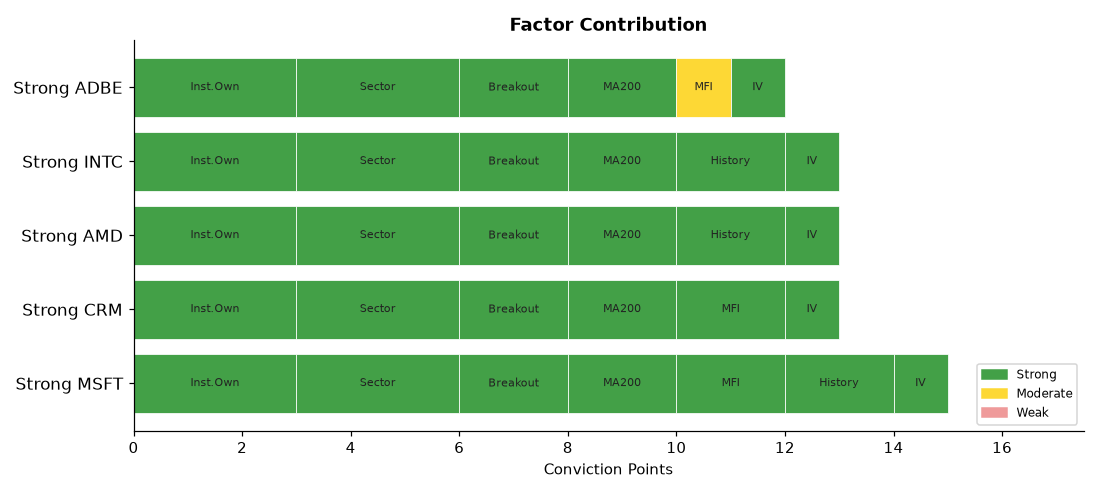
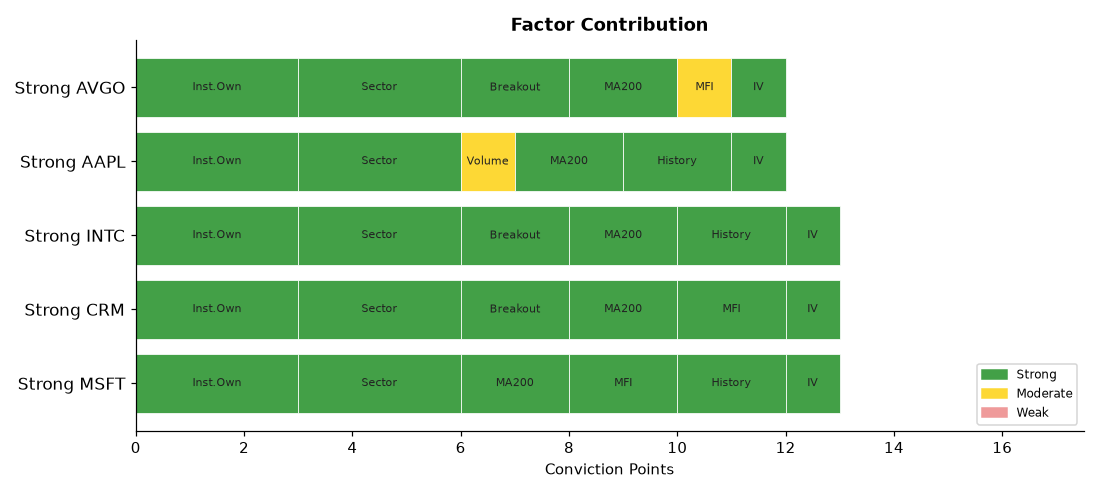
deploy: b7fadf5b06deb90e7ebb92f278722414bdd9750d

diff --git a/index.html b/index.html
@@ -4,7 +4,7 @@
   <meta charset="UTF-8">
   <meta name="viewport" content="width=device-width,initial-scale=1">
   <meta http-equiv="Cache-Control" content="no-cache,no-store,must-revalidate">
-  <title>Stock Breakout Screener — 2026-08-04 18:42</title>
+  <title>Stock Breakout Screener — 2026-08-04 20:20</title>
   <style>
     *{box-sizing:border-box;margin:0;padding:0}
     body{font-family:'Segoe UI',Arial,sans-serif;background:#f0f2f5;
@@ -34,20 +34,20 @@
 
 <div class="hdr">
   <h1>📈 Stock Breakout Screener</h1>
-  <p>Updated: 2026-08-04 18:42 UTC &nbsp;·&nbsp; Phase: Regular Market Hours &nbsp;·&nbsp;
+  <p>Updated: 2026-08-04 20:20 UTC &nbsp;·&nbsp; Phase: After-Hours (4:00–8:00 PM ET) &nbsp;·&nbsp;
      129 stocks screened &nbsp;·&nbsp; Top 5 by conviction score</p>
 </div>
 
 <div class="card">
   <strong style="font-size:14px">Market Sentiment: 🐻 Bearish</strong>
   <div class="bar-wrap" style="margin-top:10px">
-    <div style="width:4%;background:#43a047"></div>
-    <div style="width:4%;background:#fdd835"></div>
+    <div style="width:5%;background:#43a047"></div>
+    <div style="width:3%;background:#fdd835"></div>
     <div style="width:92%;background:#e53935"></div>
   </div>
   <div style="font-size:12px;color:#555">
-    🟢 Strong 4% &nbsp;
-    🟡 Moderate 4% &nbsp;
+    🟢 Strong 5% &nbsp;
+    🟡 Moderate 3% &nbsp;
     🔴 Weak 92%
   </div>
 </div>
@@ -65,11 +65,11 @@
             <span style="margin-left:auto;background:#1a237e;color:#fff;
                          padding:3px 12px;border-radius:12px;
                          font-size:13px;font-weight:600">
-              15/17
+              13/17
             </span>
           </div>
           <ul style="margin:0;padding-left:18px;font-size:13px;
-                     color:#333;line-height:1.8"><li style="margin:5px 0"><span style="background:#ffebee;color:#b71c1c;padding:2px 7px;border-radius:4px;font-size:11px;">❌</span> Volume: <b>0.8× average</b> — Above-average activity</li><li style="margin:5px 0"><span style="background:#e8f5e9;color:#2e7d32;padding:2px 7px;border-radius:4px;font-size:11px;">✅</span> Candle: close <b>$496.24</b> vs open <b>$480.76</b> (+3.2%) — regular market close</li><li style="margin:5px 0"><span style="background:#e8f5e9;color:#2e7d32;padding:2px 7px;border-radius:4px;font-size:11px;">✅</span> 200-Day MA: price <b>$496.24</b> vs MA <b>$400.78</b> — <b>✅ Above</b> long-term trend</li><li style="margin:5px 0"><span style="background:#e8f5e9;color:#2e7d32;padding:2px 7px;border-radius:4px;font-size:11px;">✅</span> Inst. ownership: <b>75.4%</b> · MFI: <b>78.2</b> · Market cap: <b>$3684.7B</b></li><li style="margin:5px 0"><span style="background:#e8f5e9;color:#2e7d32;padding:2px 7px;border-radius:4px;font-size:11px;">✅</span> Last similar breakout: <b>Jul 30, 2026</b> → <b>+10.0%</b> over 10 trading days</li></ul>
+                     color:#333;line-height:1.8"><li style="margin:5px 0"><span style="background:#ffebee;color:#b71c1c;padding:2px 7px;border-radius:4px;font-size:11px;">❌</span> Volume: <b>1.3× average</b> — Above-average activity</li><li style="margin:5px 0"><span style="background:#ffebee;color:#b71c1c;padding:2px 7px;border-radius:4px;font-size:11px;">❌</span> Candle: close <b>$492.81</b> vs open <b>$480.90</b> (+2.5%) — regular market close</li><li style="margin:5px 0"><span style="background:#e8f5e9;color:#2e7d32;padding:2px 7px;border-radius:4px;font-size:11px;">✅</span> 200-Day MA: price <b>$492.81</b> vs MA <b>$400.66</b> — <b>✅ Above</b> long-term trend</li><li style="margin:5px 0"><span style="background:#e8f5e9;color:#2e7d32;padding:2px 7px;border-radius:4px;font-size:11px;">✅</span> Inst. ownership: <b>75.4%</b> · MFI: <b>79.0</b> · Market cap: <b>$3659.4B</b></li><li style="margin:5px 0"><span style="background:#e8f5e9;color:#2e7d32;padding:2px 7px;border-radius:4px;font-size:11px;">✅</span> Last similar breakout: <b>Jul 30, 2026</b> → <b>+9.2%</b> over 10 trading days</li></ul>
         </div>
         <div style="background:#fff;border:1px solid #ddd;border-radius:10px;
                     padding:16px 20px;margin-bottom:12px;
@@ -86,7 +86,7 @@
             </span>
           </div>
           <ul style="margin:0;padding-left:18px;font-size:13px;
-                     color:#333;line-height:1.8"><li style="margin:5px 0"><span style="background:#ffebee;color:#b71c1c;padding:2px 7px;border-radius:4px;font-size:11px;">❌</span> Volume: <b>0.3× average</b> — Above-average activity</li><li style="margin:5px 0"><span style="background:#e8f5e9;color:#2e7d32;padding:2px 7px;border-radius:4px;font-size:11px;">✅</span> Candle: close <b>$190.14</b> vs open <b>$183.09</b> (+3.9%) — regular market close</li><li style="margin:5px 0"><span style="background:#e8f5e9;color:#2e7d32;padding:2px 7px;border-radius:4px;font-size:11px;">✅</span> 200-Day MA: price <b>$190.14</b> vs MA <b>$179.35</b> — <b>✅ Above</b> long-term trend</li><li style="margin:5px 0"><span style="background:#e8f5e9;color:#2e7d32;padding:2px 7px;border-radius:4px;font-size:11px;">✅</span> Inst. ownership: <b>93.8%</b> · MFI: <b>62.4</b> · Market cap: <b>N/A</b></li><li style="margin:5px 0"><span style="background:#ffebee;color:#b71c1c;padding:2px 7px;border-radius:4px;font-size:11px;">❌</span> Last similar breakout: <b>May 29, 2026</b> → <b>-13.0%</b> over 10 trading days</li></ul>
+                     color:#333;line-height:1.8"><li style="margin:5px 0"><span style="background:#ffebee;color:#b71c1c;padding:2px 7px;border-radius:4px;font-size:11px;">❌</span> Volume: <b>0.6× average</b> — Above-average activity</li><li style="margin:5px 0"><span style="background:#e8f5e9;color:#2e7d32;padding:2px 7px;border-radius:4px;font-size:11px;">✅</span> Candle: close <b>$190.99</b> vs open <b>$183.09</b> (+4.3%) — regular market close</li><li style="margin:5px 0"><span style="background:#e8f5e9;color:#2e7d32;padding:2px 7px;border-radius:4px;font-size:11px;">✅</span> 200-Day MA: price <b>$190.99</b> vs MA <b>$179.20</b> — <b>✅ Above</b> long-term trend</li><li style="margin:5px 0"><span style="background:#e8f5e9;color:#2e7d32;padding:2px 7px;border-radius:4px;font-size:11px;">✅</span> Inst. ownership: <b>93.8%</b> · MFI: <b>60.9</b> · Market cap: <b>N/A</b></li><li style="margin:5px 0"><span style="background:#ffebee;color:#b71c1c;padding:2px 7px;border-radius:4px;font-size:11px;">❌</span> Last similar breakout: <b>May 29, 2026</b> → <b>-13.0%</b> over 10 trading days</li></ul>
         </div>
         <div style="background:#fff;border:1px solid #ddd;border-radius:10px;
                     padding:16px 20px;margin-bottom:12px;
@@ -94,7 +94,7 @@
           <div style="display:flex;align-items:center;gap:10px;
                       flex-wrap:wrap;margin-bottom:10px">
             <span style="font-size:22px">🟢</span>
-            <span style="font-size:19px;font-weight:700">3. AMD</span>
+            <span style="font-size:19px;font-weight:700">3. INTC</span>
             <span style="font-size:12px;color:#666">Technology</span>
             <span style="margin-left:auto;background:#1a237e;color:#fff;
                          padding:3px 12px;border-radius:12px;
@@ -103,7 +103,7 @@
             </span>
           </div>
           <ul style="margin:0;padding-left:18px;font-size:13px;
-                     color:#333;line-height:1.8"><li style="margin:5px 0"><span style="background:#ffebee;color:#b71c1c;padding:2px 7px;border-radius:4px;font-size:11px;">❌</span> Volume: <b>0.7× average</b> — Above-average activity</li><li style="margin:5px 0"><span style="background:#e8f5e9;color:#2e7d32;padding:2px 7px;border-radius:4px;font-size:11px;">✅</span> Candle: close <b>$526.45</b> vs open <b>$504.24</b> (+4.4%) — regular market close</li><li style="margin:5px 0"><span style="background:#e8f5e9;color:#2e7d32;padding:2px 7px;border-radius:4px;font-size:11px;">✅</span> 200-Day MA: price <b>$526.45</b> vs MA <b>$365.58</b> — <b>✅ Above</b> long-term trend</li><li style="margin:5px 0"><span style="background:#e8f5e9;color:#2e7d32;padding:2px 7px;border-radius:4px;font-size:11px;">✅</span> Inst. ownership: <b>71.8%</b> · MFI: <b>42.1</b> · Market cap: <b>N/A</b></li><li style="margin:5px 0"><span style="background:#e8f5e9;color:#2e7d32;padding:2px 7px;border-radius:4px;font-size:11px;">✅</span> Last similar breakout: <b>Apr 24, 2026</b> → <b>+30.9%</b> over 10 trading days</li></ul>
+                     color:#333;line-height:1.8"><li style="margin:5px 0"><span style="background:#ffebee;color:#b71c1c;padding:2px 7px;border-radius:4px;font-size:11px;">❌</span> Volume: <b>1.0× average</b> — Above-average activity</li><li style="margin:5px 0"><span style="background:#e8f5e9;color:#2e7d32;padding:2px 7px;border-radius:4px;font-size:11px;">✅</span> Candle: close <b>$100.86</b> vs open <b>$95.24</b> (+5.9%) — regular market close</li><li style="margin:5px 0"><span style="background:#e8f5e9;color:#2e7d32;padding:2px 7px;border-radius:4px;font-size:11px;">✅</span> 200-Day MA: price <b>$100.86</b> vs MA <b>$84.29</b> — <b>✅ Above</b> long-term trend</li><li style="margin:5px 0"><span style="background:#e8f5e9;color:#2e7d32;padding:2px 7px;border-radius:4px;font-size:11px;">✅</span> Inst. ownership: <b>63.6%</b> · MFI: <b>33.2</b> · Market cap: <b>$508.7B</b></li><li style="margin:5px 0"><span style="background:#e8f5e9;color:#2e7d32;padding:2px 7px;border-radius:4px;font-size:11px;">✅</span> Last similar breakout: <b>Apr 29, 2026</b> → <b>+27.0%</b> over 10 trading days</li></ul>
         </div>
         <div style="background:#fff;border:1px solid #ddd;border-radius:10px;
                     padding:16px 20px;margin-bottom:12px;
@@ -111,24 +111,7 @@
           <div style="display:flex;align-items:center;gap:10px;
                       flex-wrap:wrap;margin-bottom:10px">
             <span style="font-size:22px">🟢</span>
-            <span style="font-size:19px;font-weight:700">4. INTC</span>
-            <span style="font-size:12px;color:#666">Technology</span>
-            <span style="margin-left:auto;background:#1a237e;color:#fff;
-                         padding:3px 12px;border-radius:12px;
-                         font-size:13px;font-weight:600">
-              13/17
-            </span>
-          </div>
-          <ul style="margin:0;padding-left:18px;font-size:13px;
-                     color:#333;line-height:1.8"><li style="margin:5px 0"><span style="background:#ffebee;color:#b71c1c;padding:2px 7px;border-radius:4px;font-size:11px;">❌</span> Volume: <b>0.7× average</b> — Above-average activity</li><li style="margin:5px 0"><span style="background:#e8f5e9;color:#2e7d32;padding:2px 7px;border-radius:4px;font-size:11px;">✅</span> Candle: close <b>$100.23</b> vs open <b>$95.32</b> (+5.2%) — regular market close</li><li style="margin:5px 0"><span style="background:#e8f5e9;color:#2e7d32;padding:2px 7px;border-radius:4px;font-size:11px;">✅</span> 200-Day MA: price <b>$100.23</b> vs MA <b>$84.00</b> — <b>✅ Above</b> long-term trend</li><li style="margin:5px 0"><span style="background:#e8f5e9;color:#2e7d32;padding:2px 7px;border-radius:4px;font-size:11px;">✅</span> Inst. ownership: <b>63.6%</b> · MFI: <b>31.5</b> · Market cap: <b>$505.5B</b></li><li style="margin:5px 0"><span style="background:#e8f5e9;color:#2e7d32;padding:2px 7px;border-radius:4px;font-size:11px;">✅</span> Last similar breakout: <b>Apr 29, 2026</b> → <b>+27.0%</b> over 10 trading days</li></ul>
-        </div>
-        <div style="background:#fff;border:1px solid #ddd;border-radius:10px;
-                    padding:16px 20px;margin-bottom:12px;
-                    box-shadow:0 2px 6px rgba(0,0,0,.07)">
-          <div style="display:flex;align-items:center;gap:10px;
-                      flex-wrap:wrap;margin-bottom:10px">
-            <span style="font-size:22px">🟢</span>
-            <span style="font-size:19px;font-weight:700">5. ADBE</span>
+            <span style="font-size:19px;font-weight:700">4. AAPL</span>
             <span style="font-size:12px;color:#666">Technology</span>
             <span style="margin-left:auto;background:#1a237e;color:#fff;
                          padding:3px 12px;border-radius:12px;
@@ -137,7 +120,24 @@
             </span>
           </div>
           <ul style="margin:0;padding-left:18px;font-size:13px;
-                     color:#333;line-height:1.8"><li style="margin:5px 0"><span style="background:#ffebee;color:#b71c1c;padding:2px 7px;border-radius:4px;font-size:11px;">❌</span> Volume: <b>0.4× average</b> — Above-average activity</li><li style="margin:5px 0"><span style="background:#e8f5e9;color:#2e7d32;padding:2px 7px;border-radius:4px;font-size:11px;">✅</span> Candle: close <b>$256.03</b> vs open <b>$247.81</b> (+3.3%) — regular market close</li><li style="margin:5px 0"><span style="background:#e8f5e9;color:#2e7d32;padding:2px 7px;border-radius:4px;font-size:11px;">✅</span> 200-Day MA: price <b>$256.03</b> vs MA <b>$242.83</b> — <b>✅ Above</b> long-term trend</li><li style="margin:5px 0"><span style="background:#e8f5e9;color:#2e7d32;padding:2px 7px;border-radius:4px;font-size:11px;">✅</span> Inst. ownership: <b>88.0%</b> · MFI: <b>58.3</b> · Market cap: <b>$101.8B</b></li></ul>
+                     color:#333;line-height:1.8"><li style="margin:5px 0"><span style="background:#fffde7;color:#f57f17;padding:2px 7px;border-radius:4px;font-size:11px;">⚠</span> Volume: <b>1.3× average</b> — Above-average activity</li><li style="margin:5px 0"><span style="background:#ffebee;color:#b71c1c;padding:2px 7px;border-radius:4px;font-size:11px;">❌</span> Candle: close <b>$309.38</b> vs open <b>$302.73</b> (+2.2%) — regular market close</li><li style="margin:5px 0"><span style="background:#e8f5e9;color:#2e7d32;padding:2px 7px;border-radius:4px;font-size:11px;">✅</span> 200-Day MA: price <b>$309.38</b> vs MA <b>$284.90</b> — <b>✅ Above</b> long-term trend</li><li style="margin:5px 0"><span style="background:#e8f5e9;color:#2e7d32;padding:2px 7px;border-radius:4px;font-size:11px;">✅</span> Inst. ownership: <b>65.9%</b> · MFI: <b>47.5</b> · Market cap: <b>$4515.1B</b></li><li style="margin:5px 0"><span style="background:#e8f5e9;color:#2e7d32;padding:2px 7px;border-radius:4px;font-size:11px;">✅</span> Last similar breakout: <b>Jun 26, 2026</b> → <b>+11.8%</b> over 10 trading days</li></ul>
+        </div>
+        <div style="background:#fff;border:1px solid #ddd;border-radius:10px;
+                    padding:16px 20px;margin-bottom:12px;
+                    box-shadow:0 2px 6px rgba(0,0,0,.07)">
+          <div style="display:flex;align-items:center;gap:10px;
+                      flex-wrap:wrap;margin-bottom:10px">
+            <span style="font-size:22px">🟢</span>
+            <span style="font-size:19px;font-weight:700">5. AVGO</span>
+            <span style="font-size:12px;color:#666">Technology</span>
+            <span style="margin-left:auto;background:#1a237e;color:#fff;
+                         padding:3px 12px;border-radius:12px;
+                         font-size:13px;font-weight:600">
+              12/17
+            </span>
+          </div>
+          <ul style="margin:0;padding-left:18px;font-size:13px;
+                     color:#333;line-height:1.8"><li style="margin:5px 0"><span style="background:#ffebee;color:#b71c1c;padding:2px 7px;border-radius:4px;font-size:11px;">❌</span> Volume: <b>1.1× average</b> — Above-average activity</li><li style="margin:5px 0"><span style="background:#e8f5e9;color:#2e7d32;padding:2px 7px;border-radius:4px;font-size:11px;">✅</span> Candle: close <b>$418.16</b> vs open <b>$402.97</b> (+3.8%) — regular market close</li><li style="margin:5px 0"><span style="background:#e8f5e9;color:#2e7d32;padding:2px 7px;border-radius:4px;font-size:11px;">✅</span> 200-Day MA: price <b>$418.16</b> vs MA <b>$373.98</b> — <b>✅ Above</b> long-term trend</li><li style="margin:5px 0"><span style="background:#e8f5e9;color:#2e7d32;padding:2px 7px;border-radius:4px;font-size:11px;">✅</span> Inst. ownership: <b>79.7%</b> · MFI: <b>50.5</b> · Market cap: <b>$1989.4B</b></li></ul>
         </div>
 
 
@@ -169,89 +169,89 @@
         <tr>
           <td style="font-weight:700;text-align:left;padding-left:10px">
             🟢 MSFT</td>
-          <td style="background:#ffcdd2">0.8×</td>
-          <td style="background:#c8e6c9">+3.2%</td>
+          <td style="background:#ffcdd2">1.3×</td>
+          <td style="background:#ffcdd2">+2.5%</td>
           <td style="background:#c8e6c9">
             ▲ Above</td>
           <td style="background:#c8e6c9">
             75.4%</td>
           <td style="background:#c8e6c9">
-            78.2</td>
+            79.0</td>
           <td style="background:#c8e6c9">Technology</td>
           <td style="background:#c8e6c9">
-            145.5%</td>
+            139.0%</td>
           <td style="background:#c8e6c9">
-            +10.0%</td>
-          <td style="font-weight:800;font-size:15px">15/17</td>
+            +9.2%</td>
+          <td style="font-weight:800;font-size:15px">13/17</td>
         </tr>
         <tr>
           <td style="font-weight:700;text-align:left;padding-left:10px">
             🟢 CRM</td>
-          <td style="background:#ffcdd2">0.3×</td>
-          <td style="background:#c8e6c9">+3.9%</td>
+          <td style="background:#ffcdd2">0.6×</td>
+          <td style="background:#c8e6c9">+4.3%</td>
           <td style="background:#c8e6c9">
             ▲ Above</td>
           <td style="background:#c8e6c9">
             93.8%</td>
           <td style="background:#c8e6c9">
-            62.4</td>
+            60.9</td>
           <td style="background:#c8e6c9">Technology</td>
           <td style="background:#c8e6c9">
-            123.0%</td>
+            137.5%</td>
           <td style="background:#ffcdd2">
             -13.0%</td>
           <td style="font-weight:800;font-size:15px">13/17</td>
         </tr>
         <tr>
           <td style="font-weight:700;text-align:left;padding-left:10px">
-            🟢 AMD</td>
-          <td style="background:#ffcdd2">0.7×</td>
-          <td style="background:#c8e6c9">+4.4%</td>
-          <td style="background:#c8e6c9">
-            ▲ Above</td>
-          <td style="background:#c8e6c9">
-            71.8%</td>
-          <td style="background:#ffcdd2">
-            42.1</td>
-          <td style="background:#c8e6c9">Technology</td>
-          <td style="background:#c8e6c9">
-            172.9%</td>
-          <td style="background:#c8e6c9">
-            +30.9%</td>
-          <td style="font-weight:800;font-size:15px">13/17</td>
-        </tr>
-        <tr>
-          <td style="font-weight:700;text-align:left;padding-left:10px">
             🟢 INTC</td>
-          <td style="background:#ffcdd2">0.7×</td>
-          <td style="background:#c8e6c9">+5.2%</td>
+          <td style="background:#ffcdd2">1.0×</td>
+          <td style="background:#c8e6c9">+5.9%</td>
           <td style="background:#c8e6c9">
             ▲ Above</td>
           <td style="background:#c8e6c9">
             63.6%</td>
           <td style="background:#ffcdd2">
-            31.5</td>
+            33.2</td>
           <td style="background:#c8e6c9">Technology</td>
           <td style="background:#c8e6c9">
-            139.7%</td>
+            132.6%</td>
           <td style="background:#c8e6c9">
             +27.0%</td>
           <td style="font-weight:800;font-size:15px">13/17</td>
         </tr>
         <tr>
           <td style="font-weight:700;text-align:left;padding-left:10px">
-            🟢 ADBE</td>
-          <td style="background:#ffcdd2">0.4×</td>
-          <td style="background:#c8e6c9">+3.3%</td>
+            🟢 AAPL</td>
+          <td style="background:#fff9c4">1.3×</td>
+          <td style="background:#ffcdd2">+2.2%</td>
           <td style="background:#c8e6c9">
             ▲ Above</td>
           <td style="background:#c8e6c9">
-            88.0%</td>
-          <td style="background:#fff9c4">
-            58.3</td>
+            65.9%</td>
+          <td style="background:#ffcdd2">
+            47.5</td>
           <td style="background:#c8e6c9">Technology</td>
           <td style="background:#c8e6c9">
-            107.9%</td>
+            68.0%</td>
+          <td style="background:#c8e6c9">
+            +11.8%</td>
+          <td style="font-weight:800;font-size:15px">12/17</td>
+        </tr>
+        <tr>
+          <td style="font-weight:700;text-align:left;padding-left:10px">
+            🟢 AVGO</td>
+          <td style="background:#ffcdd2">1.1×</td>
+          <td style="background:#c8e6c9">+3.8%</td>
+          <td style="background:#c8e6c9">
+            ▲ Above</td>
+          <td style="background:#c8e6c9">
+            79.7%</td>
+          <td style="background:#fff9c4">
+            50.5</td>
+          <td style="background:#c8e6c9">Technology</td>
+          <td style="background:#c8e6c9">
+            86.8%</td>
           <td style="background:#ffcdd2">
             N/A</td>
           <td style="font-weight:800;font-size:15px">12/17</td>
@@ -278,57 +278,57 @@
         <tr>
           <td style="text-align:left;padding-left:10px;font-weight:600">
             #1 Technology</td>
-          <td style="background:#e8f5e9;color:#2e7d32;font-weight:700">+5.06%</td>
+          <td style="background:#e8f5e9;color:#2e7d32;font-weight:700">+4.98%</td>
         </tr>
         <tr>
           <td style="text-align:left;padding-left:10px;font-weight:600">
-            #2 Financials</td>
-          <td style="background:#ffebee;color:#c62828;font-weight:700">+nan%</td>
+            #2 Materials</td>
+          <td style="background:#e8f5e9;color:#2e7d32;font-weight:700">+1.94%</td>
         </tr>
         <tr>
           <td style="text-align:left;padding-left:10px;font-weight:600">
             #3 Industrials</td>
-          <td style="background:#e8f5e9;color:#2e7d32;font-weight:700">+1.68%</td>
+          <td style="background:#e8f5e9;color:#2e7d32;font-weight:700">+1.76%</td>
         </tr>
         <tr>
           <td style="text-align:left;padding-left:10px;font-weight:600">
-            #4 Materials</td>
-          <td style="background:#e8f5e9;color:#2e7d32;font-weight:700">+1.58%</td>
+            #4 Financials</td>
+          <td style="background:#e8f5e9;color:#2e7d32;font-weight:700">+0.85%</td>
         </tr>
         <tr>
           <td style="text-align:left;padding-left:10px;font-weight:600">
             #5 Comm. Services</td>
-          <td style="background:#e8f5e9;color:#2e7d32;font-weight:700">+0.62%</td>
+          <td style="background:#e8f5e9;color:#2e7d32;font-weight:700">+0.63%</td>
         </tr>
         <tr>
           <td style="text-align:left;padding-left:10px;font-weight:600">
             #6 Consumer Stpl</td>
-          <td style="background:#e8f5e9;color:#2e7d32;font-weight:700">+0.38%</td>
+          <td style="background:#e8f5e9;color:#2e7d32;font-weight:700">+0.60%</td>
         </tr>
         <tr>
           <td style="text-align:left;padding-left:10px;font-weight:600">
             #7 Consumer Disc</td>
-          <td style="background:#ffebee;color:#c62828;font-weight:700">-0.05%</td>
+          <td style="background:#e8f5e9;color:#2e7d32;font-weight:700">+0.07%</td>
         </tr>
         <tr>
           <td style="text-align:left;padding-left:10px;font-weight:600">
             #8 Real Estate</td>
-          <td style="background:#ffebee;color:#c62828;font-weight:700">-0.10%</td>
+          <td style="background:#ffebee;color:#c62828;font-weight:700">-0.02%</td>
         </tr>
         <tr>
           <td style="text-align:left;padding-left:10px;font-weight:600">
-            #9 Energy</td>
-          <td style="background:#ffebee;color:#c62828;font-weight:700">-0.14%</td>
+            #9 Healthcare</td>
+          <td style="background:#ffebee;color:#c62828;font-weight:700">-0.09%</td>
         </tr>
         <tr>
           <td style="text-align:left;padding-left:10px;font-weight:600">
-            #10 Healthcare</td>
-          <td style="background:#ffebee;color:#c62828;font-weight:700">-0.22%</td>
+            #10 Energy</td>
+          <td style="background:#ffebee;color:#c62828;font-weight:700">-0.46%</td>
         </tr>
         <tr>
           <td style="text-align:left;padding-left:10px;font-weight:600">
             #11 Utilities</td>
-          <td style="background:#ffebee;color:#c62828;font-weight:700">-0.81%</td>
+          <td style="background:#ffebee;color:#c62828;font-weight:700">-0.56%</td>
         </tr>
     </table>
   </div>
@@ -367,7 +367,7 @@
         <li><b>Scoring weights:</b>
             Inst.Own(3) · Sector(3) · Volume(2) · Breakout(2) ·
             MA200(2) · MFI(2) · History(2) · IV(1) = 17pts max</li>
-        <li><b>Run time:</b> 2026-08-04 18:42 UTC — Market phase: Regular Market Hours</li>
+        <li><b>Run time:</b> 2026-08-04 20:20 UTC — Market phase: After-Hours (4:00–8:00 PM ET)</li>
       </ul>
     </div>
 
